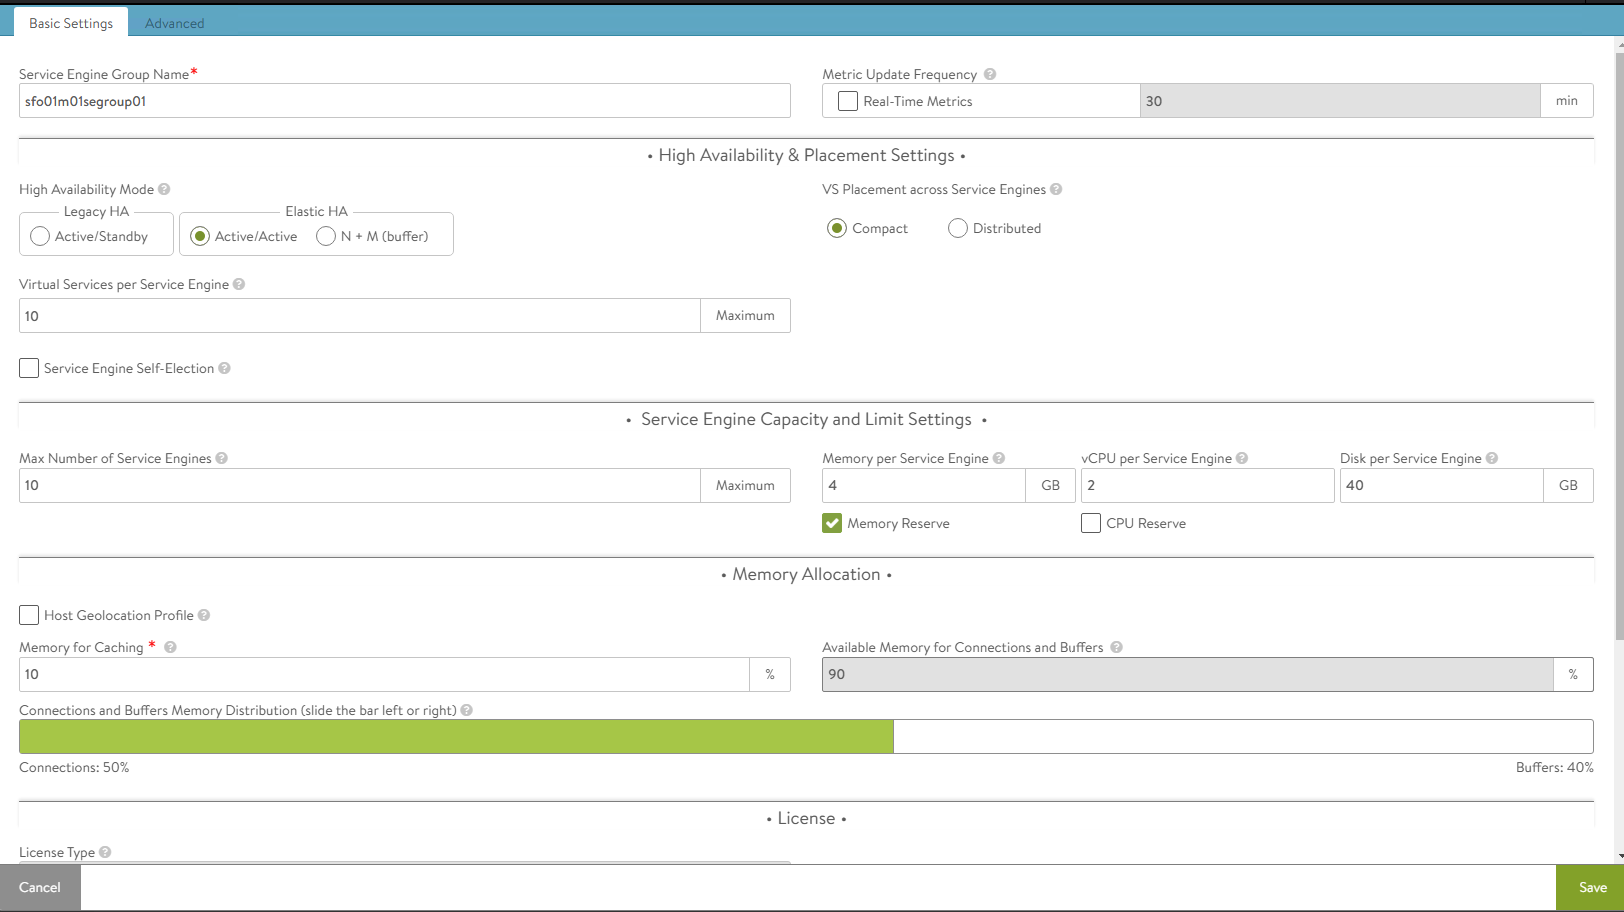
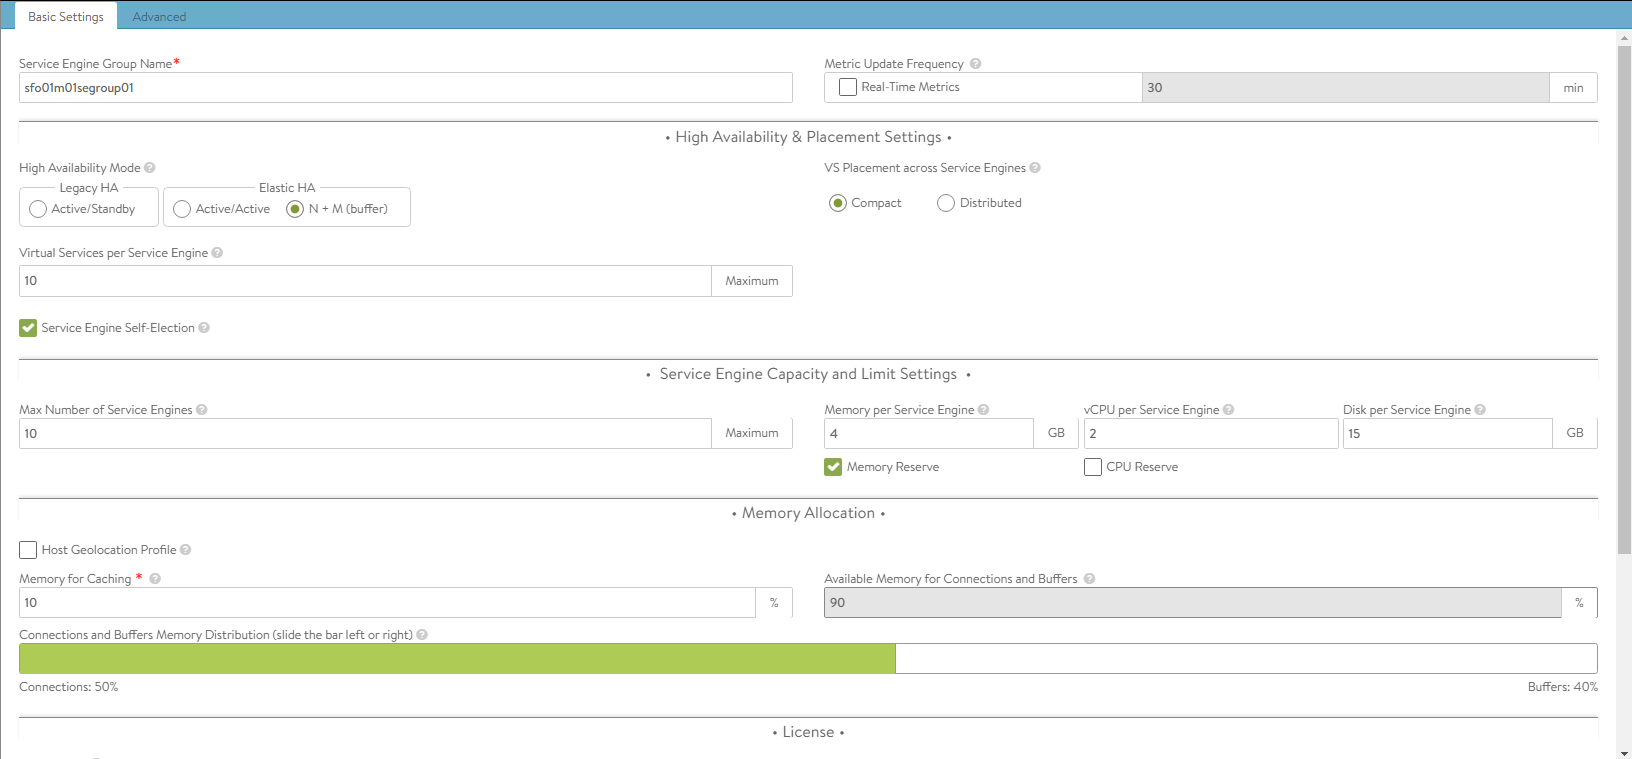
updated

diff --git a/src/deployment-guides/tkg-nsxt-airgap.md b/src/deployment-guides/tkg-nsxt-airgap.md
@@ -397,7 +397,7 @@ The following components are created in NSX Advanced Load Balancer.
 
 | Object | Sample Name |
 | --- | --- |
-| NSX Cloud | tanzu-nsx |
+| NSX Cloud | sfo01w01vc01|
 | Service Engine Group 1 | sfo01m01segroup01|
 | Service Engine Group 2 | sfo01w01segroup01 |
 
@@ -461,7 +461,7 @@ The following components are created in NSX Advanced Load Balancer.
 
     | Parameter | Value |
     | --- | --- |
-    | High availability mode | Active/Active |
+    | High availability mode | N+M |
     | VS Placement | Compact |
     | Memory per Service Engine | 4 |
     | vCPU per Service Engine | 2 |
@@ -517,7 +517,7 @@ To configure IP address pools for the networks, follow this procedure:
 
    The default gateway for the `sfo01-w01-vds01-albmanagement` network is set in the global VRF context and for the `sfo01-w01-vds01-tkgclustervip` network, the VRF Context is set to NSX tier-1 gateway.
 
-   To set the default gateway for the `asfo01-w01-vds01-albmanagement` network, click **CREATE** under the global VRF context and set the default gateway to gateway of the NSX Advanced Load Balancer management subnet.
+   To set the default gateway for the `asfo01-w01-vds01-albmanagement` network, click **ADD** Static Route under the global VRF context and set the default gateway to gateway of the NSX Advanced Load Balancer management subnet.
 
    ![Configure default gateway of the Advanced Load Balancer management network](img/tkg-airgap-nsxt/alb40.png)
 
@@ -556,7 +556,7 @@ Complete the following steps to create an IPAM profile and once created, attach 
 
 3. Attach the IPAM and DNS profiles to the NSX-T cloud.
     1. Navigate to **Infrastructure** > **Clouds**.
-    2. Edit the `tanzu-nsx` cloud.
+    2. Edit the `sfo01w01vc01` cloud.
     3. Under IPAM/DNS section, choose the IPAM and DNS profiles created earlier and save the updated configuration.  
 
      ![Select IPAM and DNS profiles](img/tkg-airgap-nsxt/alb46.png)
@@ -580,7 +580,7 @@ The bastion host needs to be deployed with the following hardware configuration:
 
 - CPU: 1
 - Memory: 4 GB
-- Storage (HDD): 200 GB or greater.
+- Storage (HDD): 160 GB or greater.
 
 **Note:** The following instructions are for CentOS 7. If you are using any other operating system for your bastion host, change the commands accordingly.
 
@@ -734,10 +734,11 @@ To install Tanzu CLI, Tanzu Plugins, and Kubectl utility on the bootstrap machin
     * SOURCE-DIRECTORY is the path to the location where the image TAR files are stored.
     * DESTINATION-REGISTRY is the path to the private registry where the images will be hosted in the air-gapped environment.
     * SECURITY-CERTIFICATE is the security certificate of the private registry where the images will be hosted in the proxied or air-gapped environment. 
-      ```bash
+      
+    ```bash
      Example:- tanzu isolated-cluster upload-bundle --source-directory ./ --destination-repo registry.example.com/library --ca-certificate /etc/docker/certs.d/registry.example.com/ca.crt
       ```
-  Note :- we can Skip Step 3,4,5 if your Bastion host direct access to private registry . we can directly upload the files from Bastion to Private registry.
+  **Note** :- we can Skip Step 3,4,5 if your Bastion host direct access to private registry . we can directly upload the files from Bastion to Private registry.
 
 1. Install the kubectl utility.
 
@@ -972,7 +973,7 @@ The templates include all of the options that are relevant to deploying manageme
 
 **Important:** The environment variables that you have set, override values from a cluster configuration file. To use all settings from a cluster configuration file, unset any conflicting environment variables before you deploy the management cluster from the CLI.<p>
 **Important:** Image repository configuration is very important details which will not be part of default config file when we are creating from TKG UI.<p>
-**Important:** Insert the key `AVI_NSXT_T1LR`. The value of this key is the tier-1 gateway where you have connected the `tkg management network` network. In this example, the value is set to `tanzu-t1-gw`.
+**Important:** Insert the key `AVI_NSXT_T1LR`. The value of this key is the tier-1 gateway where you have connected the `tkg management network` network.
 
 ```yaml
 #! ---------------------------------------------------------------------
@@ -1707,7 +1708,6 @@ The first package that you should install on your cluster is the [**cert-manager
     ℹ   'PackageInstall' resource install status: Reconciling
     ℹ   'PackageInstall' resource install status: ReconcileSucceeded
     ℹ   'PackageInstall' resource successfully reconciled
-
     ```
 
 1. Confirm that the `cert-manager` package has been installed successfully and the status is `Reconcile succeeded`.
